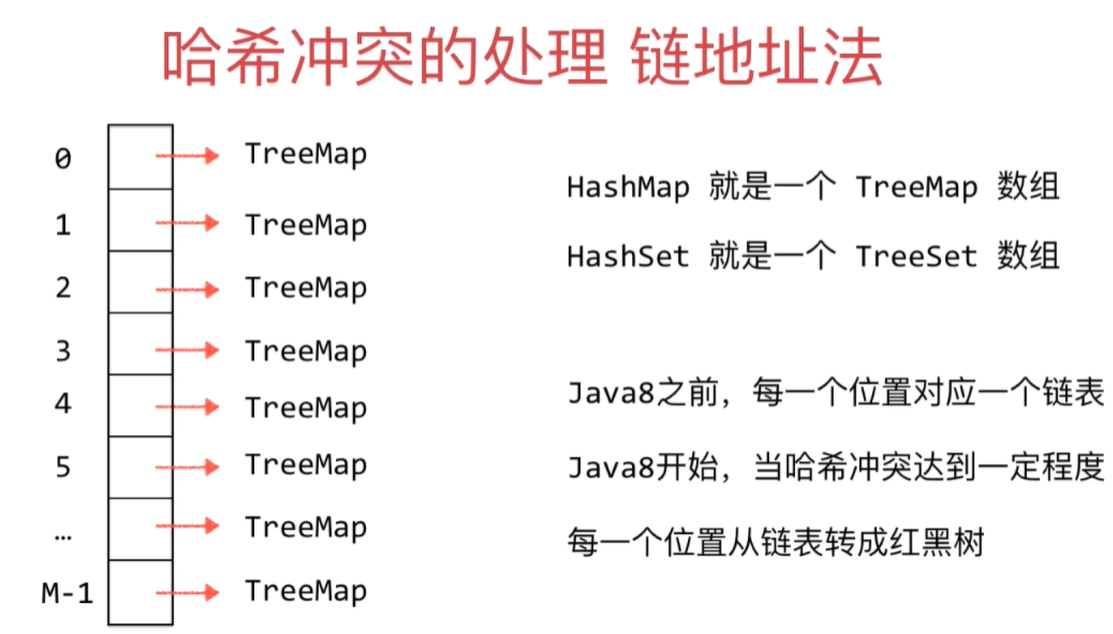
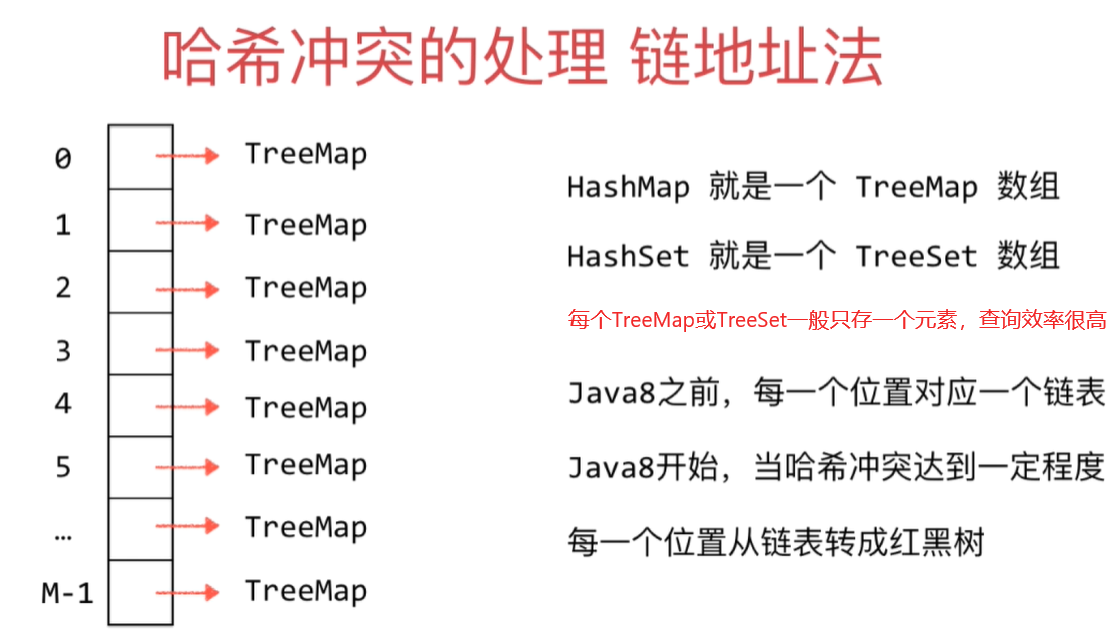
第14章哈希表看完啦

diff --git a/Part2Basic/src/main/java/Chapter14HashTable/Section5MyHashTable/HashTable.java b/Part2Basic/src/main/java/Chapter14HashTable/Section5MyHashTable/HashTable.java
@@ -32,6 +32,12 @@ public class HashTable<K, V> {
         this(97);
     }
 
+    /**
+     * 哈希表的核心，将任意的数据类型的数据转变为整型，从而直接用索引访问要访问的数据，效率最高
+     *
+     * @param key
+     * @return
+     */
     private int hash(K key) {
         return (key.hashCode() & 0x7fffffff) % M;
     }

diff --git a/Part2Basic/第14章_哈希表.md b/Part2Basic/第14章_哈希表.md
@@ -133,3 +133,5 @@ public boolean equals(Object o) {
 + 开放地址法
 + 再哈希法 Rehashing
 + Coalesced Hashing
+
+总结：哈希表其实就是个超大的数组，每个数组元素都是一个TreeMap或TreeSet，因为一般哈希地址是唯一的(hashCode返回地值唯一)，所以TreeMap或TreeSet一般只存一个元素，所以HashTable查询元素时先通过哈希索引直接定位到map再从map中取出唯一的元素，整个过程的时间复杂度几乎是O(1)，所以当对时间要求高时，建议用HashTable。同时HashTable为了时间牺牲了性能，HashTable数组开地一般都非常大，所以说哈希表是在时间和空间上做权衡的经典例子。为了降低空间的消耗，第7节我们实现了动态调节哈希表的size,第8节我们根据网上的经验表，选取了初始时最合适的size，这些都是为了改善哈希表的空间占用 
